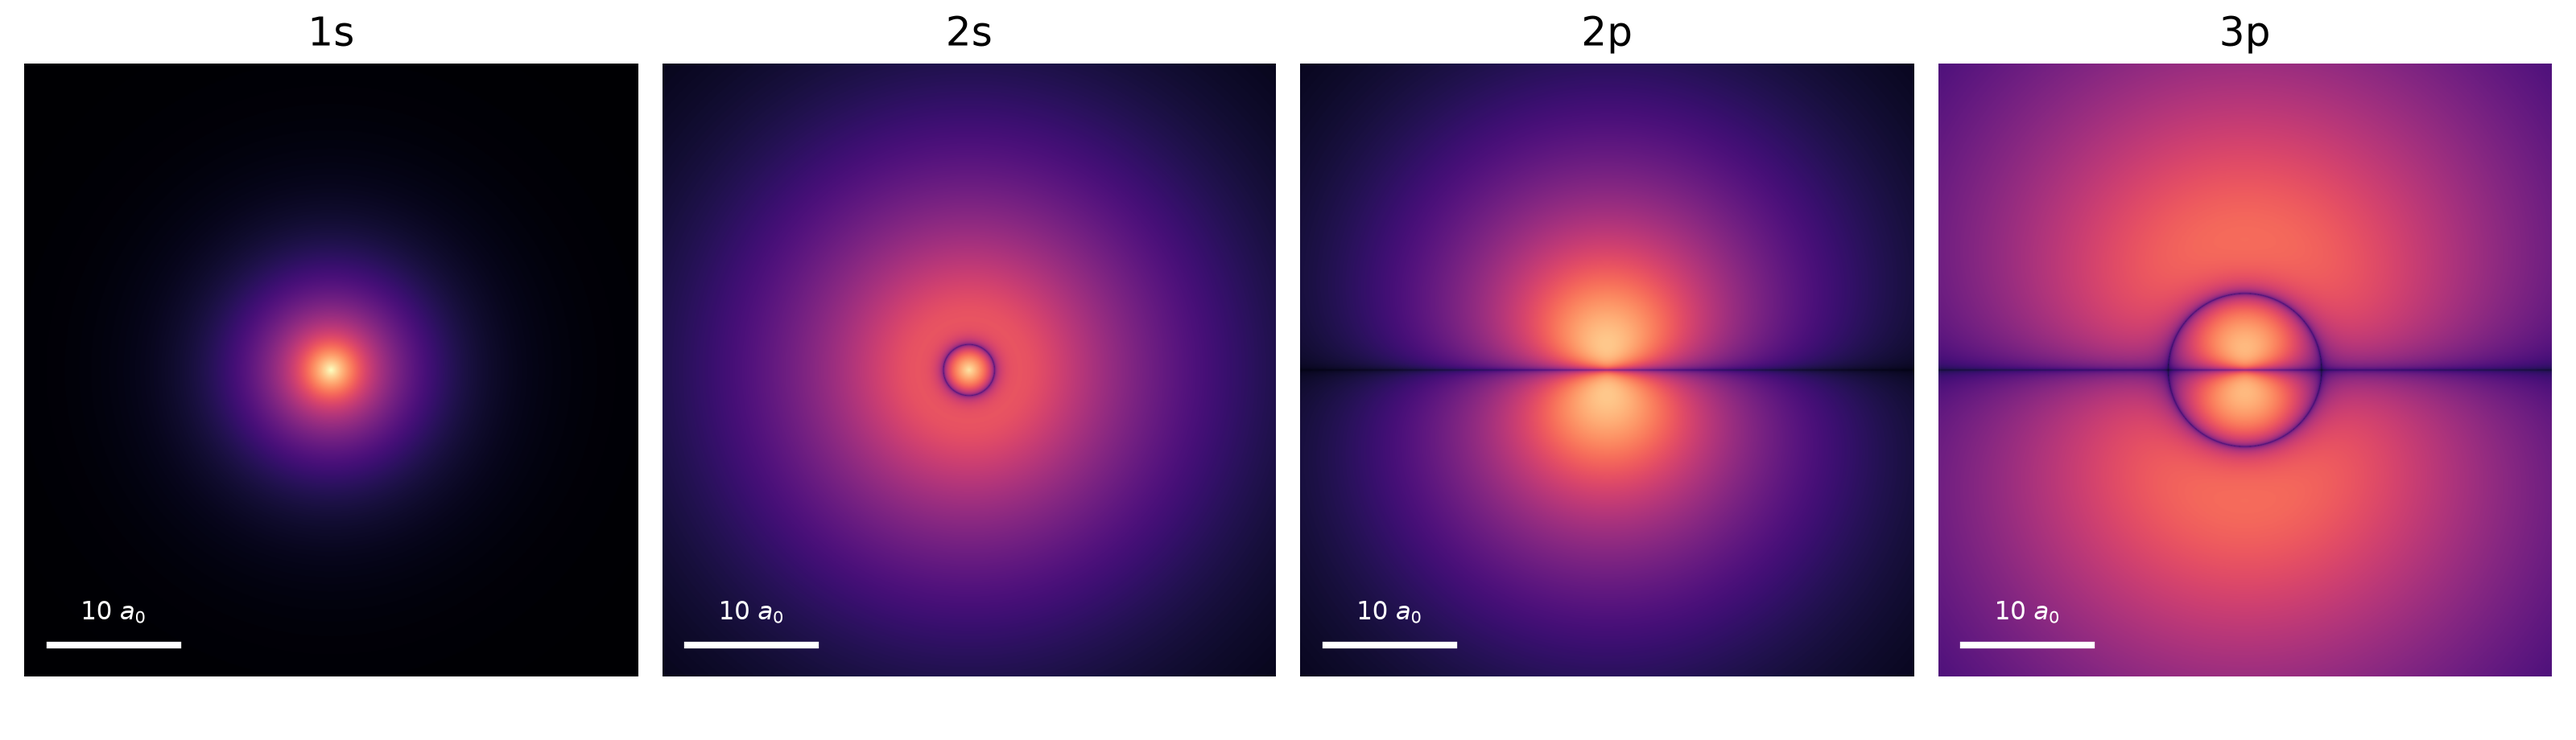
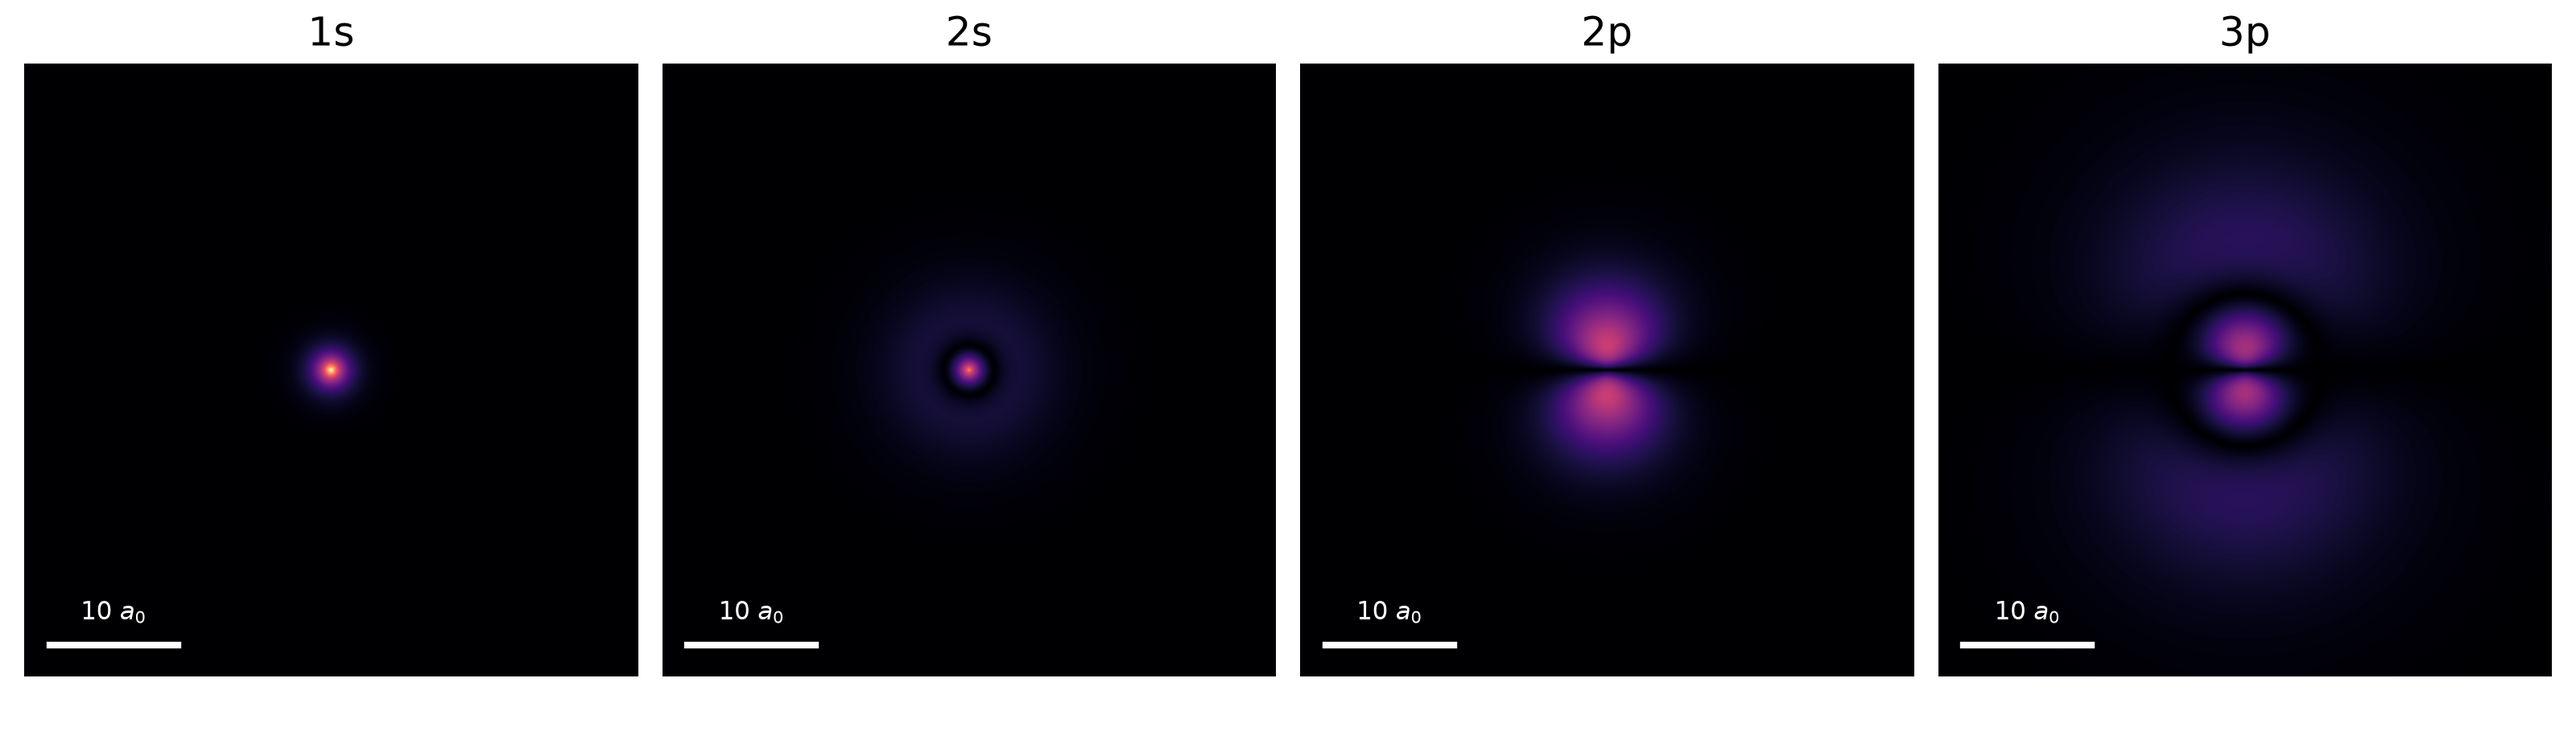
update

diff --git a/post1_radiation/hydrogen static clouds.py b/post1_radiation/hydrogen static clouds.py
@@ -18,7 +18,7 @@ print(f"Current working directory: {os.getcwd()}")
 OUTFILE = "hydrogen_static_clouds.png"
 HALF = 24.0        # half-width of the window, in Bohr radii (same for all panels)
 N = 1200           # grid points per axis
-GAMMA = 0.1       # <1 brightens faint regions; same for all panels
+GAMMA = 0.5     # <1 brightens faint regions; same for all panels
 GAMMA_NORM = 0.3   # exponent for adjusting vmaxes to enhance visibility of diffuse clouds
 
 # Hydrogen radial functions R_nl(r), atomic units (a0 = 1), normalized so that
